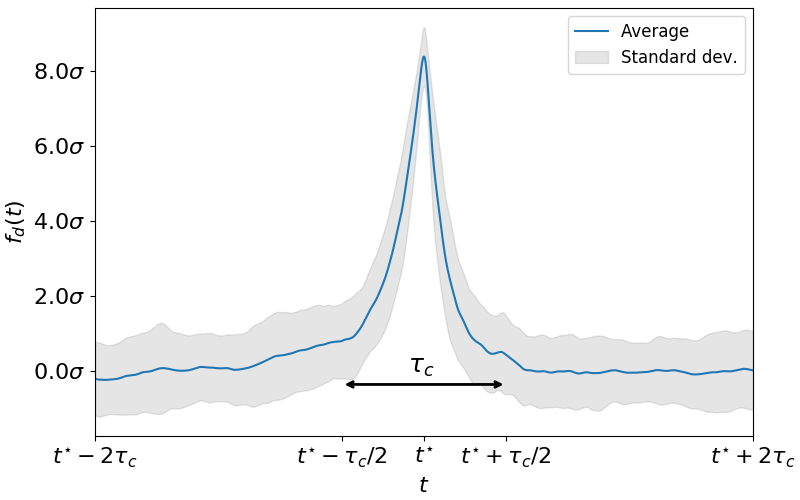
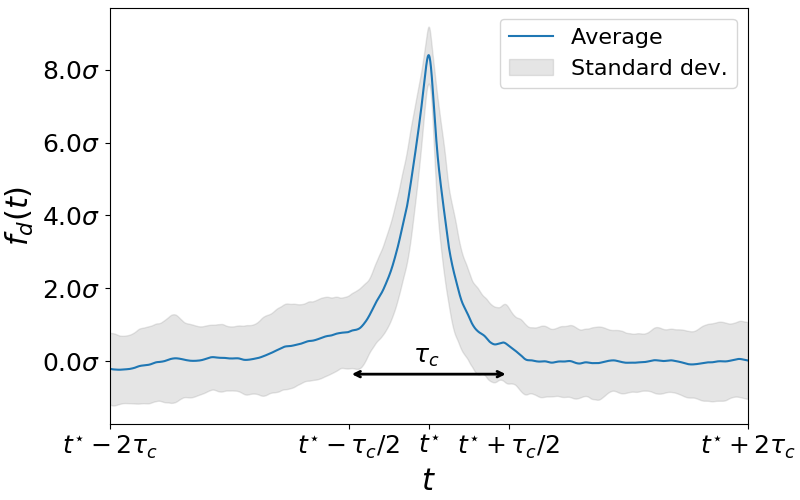
Updates timeseries_extremes plotx

diff --git a/figures/timeseries_extremes/plot_force.py b/figures/timeseries_extremes/plot_force.py
@@ -31,9 +31,11 @@ ax.set_yticklabels(['${:2.1f}\\sigma$'.format(y) for y in ax.get_yticks()], font
 ax.set_xlim((-2,2))
 plt.annotate('', xy=(-0.5,-0.35), xytext=(0.5,-0.35), arrowprops=dict(arrowstyle='<->',lw=2))
 plt.text(-0.1, -0.05, r'$\tau_c$', fontsize=18)
-ax.legend(loc='best',fontsize=12)
-ax.set_ylabel('$f_d(t)$',fontsize=16)
-ax.set_xlabel('$t$',fontsize=16)
+ax.legend(loc='best',fontsize=16)
+ax.set_ylabel('$f_d(t)$',fontsize=22)
+ax.set_xlabel('$t$',fontsize=22)
+plt.xticks(fontsize=18)
+plt.yticks(fontsize=18)
 
 fname = 'timeseries_extremes.png'
 plt.savefig(fname)
